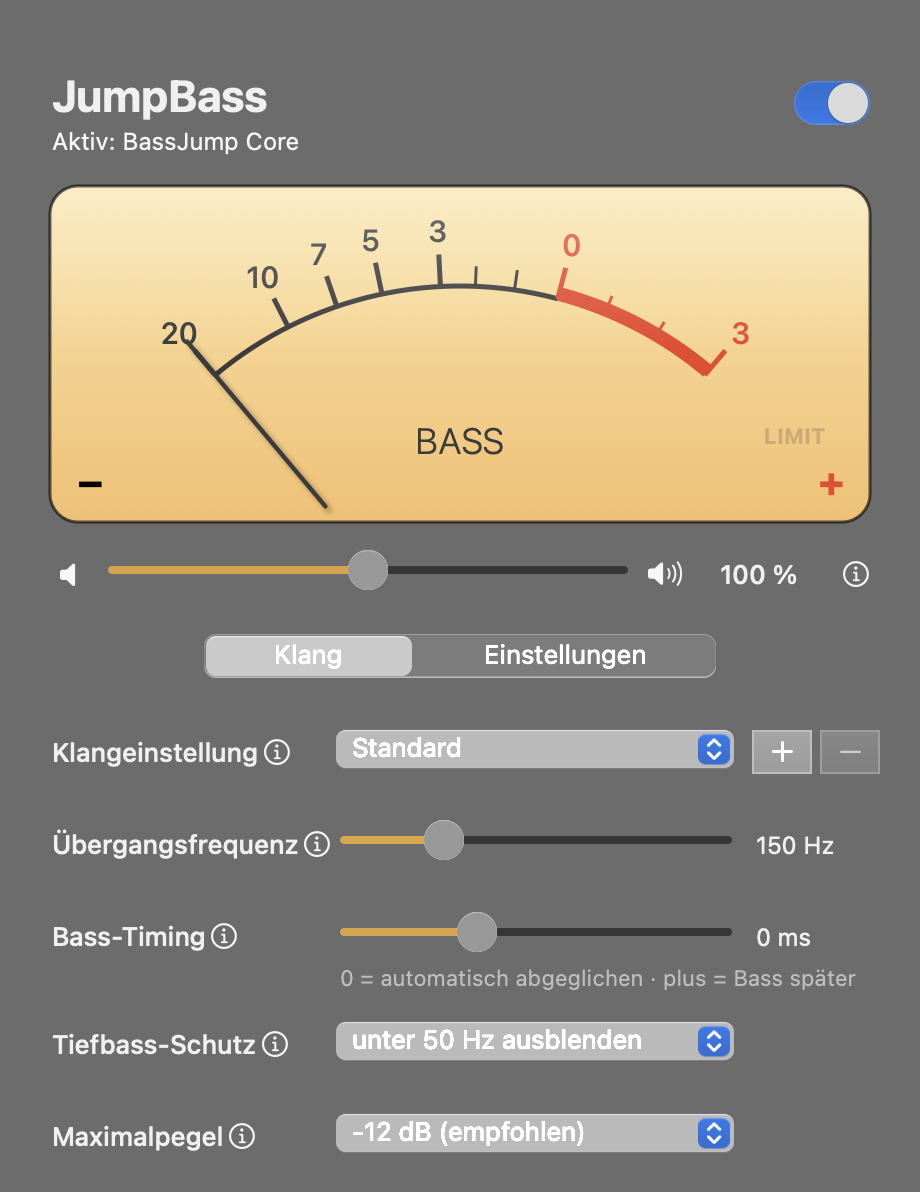
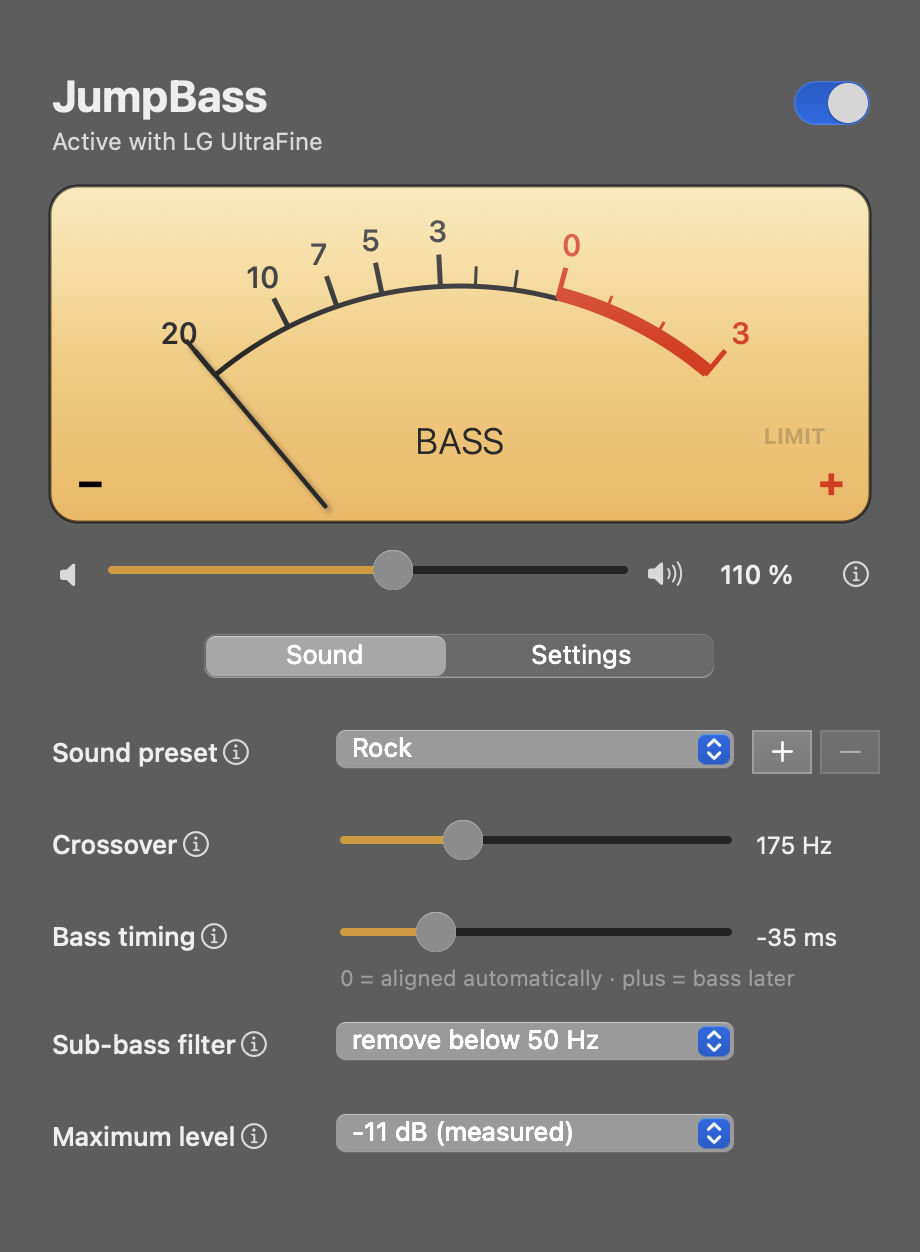
Version 1.2: Mikrofon wählbar, englische Screenshots, README aktualisiert

Changed region(s): [[0.0304, 0.0621, 0.9739, 0.9933]]

diff --git a/MainWindow.m b/MainWindow.m
@@ -151,6 +151,7 @@ static double ScalePos(double vu) {
     NSWindow *_calSheet;
     Calibrator *_calibrator;
     NSButton *_calTiming, *_calMax, *_calVolume, *_calStart, *_calReset;
+    NSPopUpButton *_calMic;
     NSProgressIndicator *_calProgress;
     NSTextField *_calIntro, *_calStatus, *_calResult;
     NSPopUpButton *_presets, *_device, *_levelStyle, *_subsonic, *_maxLevel;
@@ -467,7 +468,7 @@ static double ScalePos(double vu) {
     NSButton *calibrate = [NSButton buttonWithTitle:L(@"Kalibrieren …") target:self action:@selector(showCalibration:)];
     calibrate.frame = NSMakeRect(20, 230, 150, 28);
     [_settingsPane addSubview:calibrate];
-    [self addInfoAt:NSMakePoint(176, 236) in:_settingsPane text:L(@"Misst mit dem Mikrofon des Macs Bass-Timing, Maximalpegel und bei Monitoren die Lautstärkekurve und stellt die Werte passend ein.")];
+    [self addInfoAt:NSMakePoint(176, 236) in:_settingsPane text:L(@"Misst mit dem Mikrofon Bass-Timing, Maximalpegel und bei Monitoren die Lautstärkekurve und stellt die Werte passend ein.")];
     NSButton *uninstall = [NSButton buttonWithTitle:L(@"Deinstallieren …") target:_app action:@selector(uninstall:)];
     uninstall.frame = NSMakeRect(kWidth - 20 - 150, 230, 150, 28);
     [_settingsPane addSubview:uninstall];
@@ -475,21 +476,21 @@ static double ScalePos(double vu) {
 
 // Kleines Fenster (Sheet) über dem Hauptfenster
 - (void)buildCalibrationSheet {
-    _calSheet = [[NSWindow alloc] initWithContentRect:NSMakeRect(0, 0, kWidth, 286) styleMask:NSWindowStyleMaskTitled
+    _calSheet = [[NSWindow alloc] initWithContentRect:NSMakeRect(0, 0, kWidth, 336) styleMask:NSWindowStyleMaskTitled
                                               backing:NSBackingStoreBuffered defer:YES];
     _calSheet.title = L(@"Kalibrieren");
     _calSheet.appearance = _window.appearance;
-    NSVisualEffectView *bg = [[NSVisualEffectView alloc] initWithFrame:NSMakeRect(0, 0, kWidth, 286)];
+    NSVisualEffectView *bg = [[NSVisualEffectView alloc] initWithFrame:NSMakeRect(0, 0, kWidth, 336)];
     if (@available(macOS 10.14, *)) bg.material = NSVisualEffectMaterialHUDWindow;
     bg.state = NSVisualEffectStateActive;
     _calSheet.contentView = bg;
     FlippedView *content = [[FlippedView alloc] initWithFrame:bg.bounds];
     [bg addSubview:content];
-    _calPane = [[FlippedView alloc] initWithFrame:NSMakeRect(0, 20, kWidth, 230)];
+    _calPane = [[FlippedView alloc] initWithFrame:NSMakeRect(0, 20, kWidth, 280)];
     [content addSubview:_calPane];
     NSButton *close = [NSButton buttonWithTitle:L(@"Schließen") target:self action:@selector(closeCalibration:)];
     close.keyEquivalent = @"\e";
-    close.frame = NSMakeRect(kWidth - 24 - 110, 244, 116, 30);
+    close.frame = NSMakeRect(kWidth - 24 - 110, 294, 116, 30);
     [content addSubview:close];
 
     CGFloat x = 24, w = kWidth - 48;
@@ -515,32 +516,42 @@ static double ScalePos(double vu) {
     [self addInfo:L(@"Spielt Tieftöne in steigender Lautstärke auf dem BassJump, bis er hörbar übersteuert, und setzt den Maximalpegel knapp darunter. Dabei wird es kurz laut. Gilt für alle Ausgaben.") after:_calMax];
     [self addInfo:L(@"Nur bei externen Monitoren mit eigener Lautstärke: Verstellt sie kurz über die Lautstärketasten und misst, wie stark der Monitor lauter wird, damit der Bass genau mitgeht. Dafür muss eine App wie MonitorControl, BetterDisplay oder Lunar die Tasten an den Monitor weitergeben. Braucht die Freigabe „Bedienungshilfen“.") after:_calVolume];
 
+    NSTextField *micLabel = [self label:L(@"Mikrofon:") size:12 weight:NSFontWeightRegular frame:NSMakeRect(x, 108, 0, 18)];
+    [micLabel setFrameSize:NSMakeSize(micLabel.intrinsicContentSize.width, 18)];
+    [_calPane addSubview:micLabel];
+    CGFloat mx = x + micLabel.frame.size.width + 6;
+    _calMic = [[NSPopUpButton alloc] initWithFrame:NSMakeRect(mx, 102, w - (mx - x) - 26, 26) pullsDown:NO];
+    _calMic.target = self;
+    _calMic.action = @selector(chooseMicrophone:);
+    [_calPane addSubview:_calMic];
+    [self addInfoAt:NSMakePoint(NSMaxX(_calMic.frame) + 6, 107) in:_calPane text:L(@"Das eingebaute Mikrofon liefert meist die genauesten Ergebnisse. Ein externes Mikrofon an den Hörplatz legen, nicht direkt an den BassJump oder die Lautsprecher.")];
+
     _calStart = [NSButton buttonWithTitle:L(@"Kalibrierung starten") target:self action:@selector(startCalibration:)];
-    _calStart.frame = NSMakeRect(x - 6, 104, 190, 30);
+    _calStart.frame = NSMakeRect(x - 6, 138, 190, 30);
     [_calPane addSubview:_calStart];
-    _calProgress = [[NSProgressIndicator alloc] initWithFrame:NSMakeRect(x + 196, 110, w - 196, 20)];
+    _calProgress = [[NSProgressIndicator alloc] initWithFrame:NSMakeRect(x + 196, 144, w - 196, 20)];
     _calProgress.indeterminate = NO;
     _calProgress.minValue = 0;
     _calProgress.maxValue = 1;
     _calProgress.hidden = YES;
     [_calPane addSubview:_calProgress];
-    _calStatus = [self label:@"" size:12 weight:NSFontWeightRegular frame:NSMakeRect(x, 140, w, 34)];
+    _calStatus = [self label:@"" size:12 weight:NSFontWeightRegular frame:NSMakeRect(x, 174, w, 34)];
     _calStatus.lineBreakMode = NSLineBreakByWordWrapping;
     _calStatus.maximumNumberOfLines = 2;
     [_calPane addSubview:_calStatus];
 
     _calResult = [NSTextField wrappingLabelWithString:@""];
     _calResult.font = [NSFont systemFontOfSize:12];
-    _calResult.frame = NSMakeRect(x, 178, w - 130, 50);
+    _calResult.frame = NSMakeRect(x, 212, w, 66);
     [_calPane addSubview:_calResult];
     _calReset = [NSButton buttonWithTitle:L(@"Zurücksetzen") target:self action:@selector(resetCalibration:)];
-    _calReset.frame = NSMakeRect(kWidth - 24 - 120, 182, 126, 30);
+    _calReset.frame = NSMakeRect(kWidth - 24 - 120, 138, 126, 30);
     [_calPane addSubview:_calReset];
 }
 
 - (void)refreshCalibration {
     NSString *output = [_app currentOutputName] ?: @"–";
-    _calIntro.stringValue = [NSString stringWithFormat:L(@"Misst mit dem Mikrofon des Macs, wie der BassJump mit „%@“ zusammenspielt, und stellt die Werte passend ein. Dauert etwa eine halbe Minute, kurz wird es laut. Vorher: Raum still, Mac und BassJump wie beim Hören aufstellen, normale Lautstärke."), output];
+    _calIntro.stringValue = [NSString stringWithFormat:L(@"Misst mit dem Mikrofon, wie der BassJump mit „%@“ zusammenspielt, und stellt die Werte passend ein. Dauert gut zwei Minuten, kurz wird es laut. Vorher: Raum still, Mac und BassJump wie beim Hören aufstellen, normale Lautstärke."), output];
     BOOL monitor = [_app monitorVolume] >= 0;
     BOOL running = _calibrator.running;
     if (monitor != (_calVolume.tag == 1)) {   // nur beim Wechsel der Ausgabe vorbelegen, nicht die Wahl überschreiben
@@ -548,7 +559,8 @@ static double ScalePos(double vu) {
         _calVolume.state = monitor ? NSControlStateValueOn : NSControlStateValueOff;
     }
     _calVolume.enabled = monitor && !running;
-    _calTiming.enabled = _calMax.enabled = !running;
+    _calTiming.enabled = _calMax.enabled = _calMic.enabled = !running;
+    [self rebuildMicrophones];
     _calStart.title = running ? L(@"Abbrechen") : L(@"Kalibrierung starten");
     _calProgress.hidden = !running;
 
@@ -570,6 +582,23 @@ static double ScalePos(double vu) {
     if (cal[@"volumeExponent"]) [parts addObject:[NSString stringWithFormat:L(@"Lautstärkekurve: doppelte Lautstärke = %+.1f dB"), [cal[@"volumeExponent"] doubleValue] * 20 * log10(2)]];
     _calResult.stringValue = [NSString stringWithFormat:L(@"Zuletzt kalibriert am %@:\n%@"), [f stringFromDate:cal[@"date"]], [parts componentsJoinedByString:@" · "]];
 }
+
+- (void)rebuildMicrophones {
+    NSString *chosen = _app.calibrationMicUID;
+    [_calMic removeAllItems];
+    [_calMic addItemWithTitle:L(@"Automatisch (eingebautes bevorzugt)")];
+    _calMic.lastItem.representedObject = @"";
+    BOOL found = NO;
+    for (NSDictionary *mic in [_app microphones]) {
+        NSString *title = [mic[@"builtIn"] boolValue] ? [NSString stringWithFormat:L(@"%@ (empfohlen)"), mic[@"name"]] : mic[@"name"];
+        [_calMic addItemWithTitle:title];
+        _calMic.lastItem.representedObject = mic[@"uid"];
+        if ([mic[@"uid"] isEqualToString:chosen]) { [_calMic selectItem:_calMic.lastItem]; found = YES; }
+    }
+    if (!found) [_calMic selectItemAtIndex:0];   // gewähltes Mikrofon gerade nicht angeschlossen: automatisch
+}
+
+- (void)chooseMicrophone:(NSPopUpButton *)sender { _app.calibrationMicUID = sender.selectedItem.representedObject; }
 
 - (void)startCalibration:(id)sender {
     if (_calibrator.running) {

diff --git a/main.m b/main.m
@@ -1473,7 +1473,30 @@ static NSArray<NSString *> *ProfileKeys(void) { return @[@"levelDB", @"crossover
 - (BOOL)testPlaying { return atomic_load(&_engine.testFrames) != 0; }
 - (unsigned)ioCycles { return atomic_load(&_engine.ioCycles); }
 - (double)outputSampleRate { return _sampleRate; }
-- (AudioObjectID)measurementMicrophone { return FallbackMicrophone([self findBassJump]); }
+// Gewähltes Mikrofon, falls angeschlossen, sonst das eingebaute
+- (AudioObjectID)measurementMicrophone {
+    AudioObjectID chosen = self.calibrationMicUID ? DeviceForUID(self.calibrationMicUID) : kAudioObjectUnknown;
+    return chosen ?: FallbackMicrophone([self findBassJump]);
+}
+
+- (NSArray<NSDictionary *> *)microphones {
+    AudioObjectID bassJump = [self findBassJump];
+    NSMutableArray *r = [NSMutableArray array];
+    for (NSNumber *n in InputDevices()) {
+        AudioObjectID dev = n.unsignedIntValue;
+        NSString *uid = DeviceUID(dev);
+        if (!uid || dev == bassJump || LooksLikeBassJump(dev)) continue;
+        BOOL builtIn = DeviceUInt32(dev, kAudioDevicePropertyTransportType, kAudioObjectPropertyScopeGlobal) == kAudioDeviceTransportTypeBuiltIn;
+        [r addObject:@{ @"uid": uid, @"name": DeviceName(dev) ?: uid, @"builtIn": @(builtIn) }];
+    }
+    return r;
+}
+
+- (NSString *)calibrationMicUID { return [self.defaults stringForKey:@"calibrationMicUID"]; }
+- (void)setCalibrationMicUID:(NSString *)uid {
+    if (uid.length) [self.defaults setObject:uid forKey:@"calibrationMicUID"];
+    else [self.defaults removeObjectForKey:@"calibrationMicUID"];
+}
 - (NSString *)currentOutputName { AudioObjectID out = DefaultOutputDevice(); return out ? DeviceName(out) : nil; }
 
 // Monitor ohne macOS-Lautstärke, dessen eigene Lautstärke lesbar ist: 0…1, sonst -1

diff --git a/JumpBassRevived.h b/JumpBassRevived.h
@@ -106,6 +106,8 @@ BOOL LooksLikeBassJump(AudioObjectID dev);
 - (unsigned)ioCycles;                   // Zähler der Audio-Durchläufe (läuft die Engine?)
 - (double)outputSampleRate;
 - (AudioObjectID)measurementMicrophone;
+- (NSArray<NSDictionary *> *)microphones;   // uid, name, builtIn – ohne BassJump
+@property (nonatomic, copy) NSString *calibrationMicUID;   // nil = automatisch
 @end
 
 // Lautstärke eines externen Monitors per DDC (nur Apple Silicon), im Hintergrund zweimal pro Sekunde gelesen

diff --git a/README.md b/README.md
@@ -24,6 +24,9 @@ That is exactly what JumpBass Revived does.
   <img src="docs/window-sound.png" width="380" alt="Window: sound settings">
   <img src="docs/window-settings.png" width="380" alt="Window: settings">
 </p>
+<p align="center">
+  <img src="docs/window-calibration.png" width="460" alt="Calibration window">
+</p>
 
 <p align="center"><sub>The user interface is available in English and German and follows the system language.</sub></p>
 
@@ -35,7 +38,16 @@ That is exactly what JumpBass Revived does.
 - **Volume** in percent or decibels, automatically follows the Mac's volume and mute – with loudness
   compensation (the bass is lowered less than the speakers, because hearing loses bass at low volume)
 - **External displays:** for monitors without macOS volume control (DisplayPort/HDMI, e.g. LG UltraFine)
-  the bass follows the volume and mute set in [MonitorControl](https://github.com/MonitorControl/MonitorControl) via DDC
+  the bass follows the monitor's own volume and mute. On Apple Silicon JumpBass reads them directly from the
+  monitor via DDC/CI, so it works no matter which app sets the volume (MonitorControl, BetterDisplay, Lunar …)
+  or whether the monitor's buttons are used. On Intel Macs the value is read from
+  [MonitorControl](https://github.com/MonitorControl/MonitorControl)
+- **Per-output values:** volume, crossover and bass timing are remembered separately for every output
+  device (e.g. MacBook speakers vs. display) and restored when you switch
+- **Calibration with a microphone:** measures bass timing (8 runs, outliers discarded), the level at which
+  your BassJump starts to clip (sets the maximum level just below it) and, for displays, how the monitor's
+  volume curve behaves. Results are stored per output with date and shown in the calibration window.
+  The built-in microphone is used by default; any other microphone can be chosen
 - **Presets:** 16 built-in ones plus any number of your own, which store all sound settings
 - **Protection against distortion:** sub-bass filter (high-pass for frequencies the small driver
   cannot reproduce) and a look-ahead limiter whose ceiling is set below the measured clipping point
@@ -46,6 +58,8 @@ That is exactly what JumpBass Revived does.
 - **Selectable outputs:** e.g. only with the MacBook speakers and the external display, not with headphones
 - **Interface:** window with an analog VU meter and an ⓘ explanation for every setting, plus quick
   access from the menu bar (icon derived from the app icon, greyed out when inactive)
+- **Stable signature:** releases are signed with a self-made certificate, so macOS keeps the audio
+  permission across updates
 - **Update notice:** checks GitHub once a day for a new release (can be turned off; nothing is installed automatically)
 - **Languages:** English and German
 - **Universal binary:** Intel and Apple Silicon
@@ -71,8 +85,9 @@ so macOS drives it without any driver. JumpBass Revived
 
 If the app quits or crashes, macOS immediately restores the original output.
 
-The code consists of two Objective-C files: `main.m` (audio, menu bar, settings) and
-`MainWindow.m` (window and VU meter).
+The code consists of four Objective-C files: `main.m` (audio, menu bar, settings), `MainWindow.m`
+(window and VU meter), `Calibration.m` (measurements with the microphone) and `DDC.m` (reading a
+display's volume via DDC/CI).
 
 ## Requirements
 
@@ -82,8 +97,9 @@ The code consists of two Objective-C files: `main.m` (audio, menu bar, settings)
 | **10.13 High Sierra – 14.1** | Requires a virtual loopback device such as the free [BlackHole 2ch](https://github.com/ExistentialAudio/BlackHole). |
 
 Tested with a BassJump 2 on a MacBook Pro (Apple Silicon) running macOS 15 Sequoia, with the MacBook
-speakers and an LG UltraFine display (volume via MonitorControl). The clipping point and the display's
-volume curve were measured acoustically with the MacBook microphone.
+speakers and an LG UltraFine display. The clipping point and the display's volume curve were measured acoustically
+with the MacBook microphone. Reading the volume via DDC follows the VESA MCCS standard and should work
+with any display that has speakers and supports DDC/CI, but has only been tested with the LG UltraFine.
 The BlackHole path for older systems is implemented but has not yet been tested on real hardware.
 
 ## Installation
@@ -92,7 +108,7 @@ The BlackHole path for older systems is implemented but has not yet been tested 
 2. The app is not notarized by Apple. On first launch, right-click the app → **Open**, or on macOS 15+
    go to *System Settings → Privacy & Security → Open Anyway*.
 3. On first launch, macOS asks for the **Screen & System Audio Recording** permission – please allow it.
-   Microphone access is not needed.
+   Microphone access is only requested if you run the calibration.
 4. Plug in the BassJump. It is detected automatically and the JumpBass icon appears in the menu bar.
 5. Enable "Beim Anmelden starten" (launch at login) in the window under *Einstellungen* (settings).
 
@@ -137,6 +153,7 @@ sudo ./alte-software-entfernen.sh
 | BassJump spielt mit bei (play with) | Output devices for which the bass is added. |
 | Nach Updates suchen (check for updates) | Asks GitHub once a day for the latest version number and shows a notice in the window and menu. |
 | Nur als Subwoofer nutzen (subwoofer only) | Switches the default input/output back if macOS selects the BassJump. |
+| Kalibrieren … (calibrate) | Opens the calibration window: choose what to measure (bass timing, maximum level, volume curve) and the microphone. Takes a little over two minutes and briefly gets loud. The volume curve needs the *Accessibility* permission, because it presses the volume keys. |
 
 ## Uninstalling
 
@@ -150,8 +167,13 @@ permissions and moves itself to the Trash. Alternatively: `./deinstallieren.sh`.
 - **Distortion at high volume:** a hardware limit of the small, USB-powered amplifier. The default
   ceiling of -12 dB already stays below it; if it still crackles, lower the maximum level or raise the
   sub-bass filter. If LIMIT is lit all the time, the BassJump volume is set too high.
-- **Bass does not follow an external display's volume:** the display has no macOS volume control. Use
-  MonitorControl to set its volume; JumpBass reads it from there.
+- **Bass does not follow an external display's volume:** the display has no macOS volume control and
+  JumpBass could not read it via DDC (Intel Mac, some docks/adapters, or the built-in HDMI port of some
+  Macs). Use MonitorControl to set its volume; JumpBass then reads it from there.
+- **Faint hiss from the BassJump:** comes from its amplifier and is the same in every state, including
+  standby and with the original software. Only removing power makes it go away.
+- **Calibration aborts:** keep JumpBass switched on with an output where the BassJump plays along, and
+  make sure microphone access is allowed in *Privacy & Security → Microphone*.
 - **Diagnostics:** `JUMPBASS_DEBUG=1 "/Applications/JumpBass Revived.app/Contents/MacOS/JumpBassRevived"`
   prints status, levels and latencies to the terminal.
 
